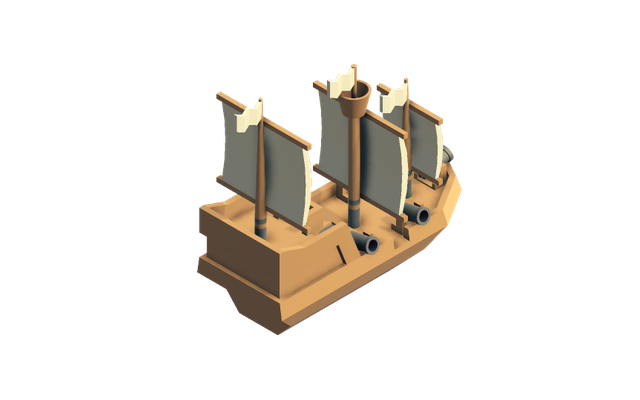
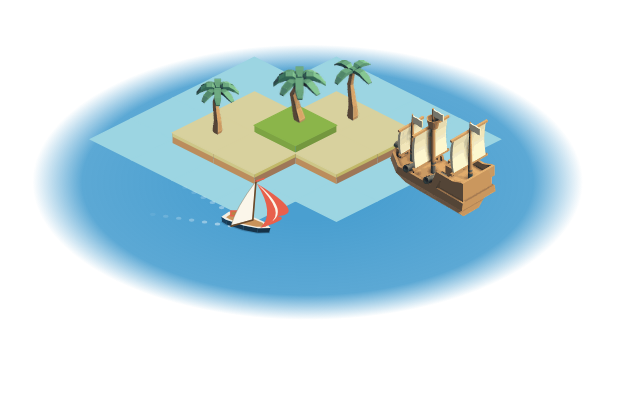
feat(high-seas): playable tile on the landing page, its picture, and the README

diff --git a/high-seas/game.js b/high-seas/game.js
@@ -1004,13 +1004,12 @@ function drawGround(range, items) {
 }
 
 
-function drawBlock(i, j, tt) {
-  const w = S.world;
+function drawBlock(i, j, tt, at = (x, y) => tileAt(S.world, x, y)) {
   const z = LIFT[tt];
   const top = tt === GRASS ? C.grass : C.sand;
   // Side faces where the neighbour in front is lower.
-  const right = tileAt(w, i + 1.5, j + 0.5);
-  const left = tileAt(w, i + 0.5, j + 1.5);
+  const right = at(i + 1.5, j + 0.5);
+  const left = at(i + 0.5, j + 1.5);
   const zr = right >= SAND ? LIFT[right] : -3;
   const zl = left >= SAND ? LIFT[left] : -3;
   if (zr < z) {
@@ -1703,7 +1702,75 @@ const safeTop = () => safe.top;
 const safeRight = () => safe.right;
 void cssVar;
 
+// The landing tile's picture (scripts/high-seas/make-tile.mjs): an islet with palms, the galleon,
+// and the dinghy running under its spinnaker, on a pool of sea, with the page's background clear.
+function drawVignette() {
+  ctx.setTransform(1, 0, 0, 1, 0, 0);
+  ctx.clearRect(0, 0, canvas.width, canvas.height);
+  const z = (cam.w / 330) * 0.66;
+  const centre = iso.toScreen(4.6, 4.0);
+  ctx.setTransform(dpr * z, 0, 0, dpr * z, dpr * (cam.w / 2 - centre.x * z), dpr * (cam.h / 2 - centre.y * z - 14));
+  // A pool of sea that fades out at its rim.
+  const c = iso.toScreen(4.7, 4.4);
+  ctx.save();
+  ctx.translate(c.x, c.y);
+  ctx.scale(1, 0.5);
+  const grad = ctx.createRadialGradient(0, 0, 60, 0, 0, 215);
+  grad.addColorStop(0, C.deep);
+  grad.addColorStop(0.75, 'rgba(74,159,208,0.9)');
+  grad.addColorStop(1, 'rgba(74,159,208,0)');
+  ctx.fillStyle = grad;
+  ctx.beginPath();
+  ctx.arc(0, 0, 215, 0, Math.PI * 2);
+  ctx.fill();
+  ctx.restore();
+  const land = { '3,2': SAND, '4,2': SAND, '2,3': SAND, '3,3': GRASS, '4,3': SAND, '3,4': SAND, '2,4': SAND };
+  const at = (x, y) => land[`${Math.floor(x)},${Math.floor(y)}`] ?? DEEP;
+  for (let j = 1; j <= 5; j++)
+    for (let i = 1; i <= 5; i++) {
+      const t = at(i + 0.5, j + 0.5);
+      if (t !== DEEP) continue;
+      let nearLand = false;
+      for (let dj = -1; dj <= 1; dj++) for (let di = -1; di <= 1; di++) nearLand = nearLand || at(i + di + 0.5, j + dj + 0.5) >= SAND;
+      if (!nearLand) continue;
+      tilePath(i, j, 0);
+      ctx.fillStyle = C.shallow;
+      ctx.fill();
+      ctx.strokeStyle = C.shallow;
+      ctx.stroke();
+    }
+  const items = [];
+  for (const [k, t] of Object.entries(land)) {
+    const [i, j] = k.split(',').map(Number);
+    items.push({ depth: iso.depth(i + 0.5, j + 0.5), draw: () => drawBlock(i, j, t, at) });
+  }
+  items.push({ depth: onTile(3.4, 3.3, 1), draw: () => sprite('tree168', 3.4, 3.3, 0.62, LIFT[GRASS]) });
+  items.push({ depth: onTile(3.8, 2.4, 1), draw: () => sprite('tree167', 3.8, 2.4, 0.55, LIFT[SAND]) });
+  items.push({ depth: onTile(2.5, 4.4, 1), draw: () => sprite('tree169', 2.5, 4.4, 0.5, LIFT[SAND]) });
+  items.push({ depth: iso.depth(6.4, 2.6, 1), draw: () => drawGalleon(6.6, 3.0, Math.PI) });
+  const b = { x: 5.0, y: 6.2 };
+  items.push({
+    depth: iso.depth(b.x, b.y, 1),
+    draw: () => {
+      for (let k = 1; k <= 7; k++) {
+        const w = { x: b.x - k * 0.22, y: b.y + k * 0.05, h: -0.25, age: k * 0.18, v: 1 };
+        const spread = 0.1 + w.age * 0.35;
+        const a = iso.toScreen(w.x - Math.sin(w.h) * spread, w.y + Math.cos(w.h) * spread);
+        const q = iso.toScreen(w.x + Math.sin(w.h) * spread, w.y - Math.cos(w.h) * spread);
+        ctx.fillStyle = `rgba(255,255,255,${0.6 * (1 - k / 8)})`;
+        ctx.beginPath();
+        ctx.ellipse(a.x, a.y, 2.2, 1.2, 0, 0, Math.PI * 2);
+        ctx.ellipse(q.x, q.y, 2.2, 1.2, 0, 0, Math.PI * 2);
+        ctx.fill();
+      }
+      drawDinghy(ctx, iso, b.x, b.y, { heading: -0.25, heel: 0.12, boom: 1.25, fill: 1, luff: 0, t: 0, keel: true, spinnaker: true, spinFill: 1, cargo: [{ colour: '#e8604c' }], vane: { x: 0.9, y: -0.3 } }, ZS);
+    },
+  });
+  for (const it of sortByDepth(items)) it.draw();
+}
+
 function draw() {
+  if (S.mode === 'tile') return drawVignette();
   if (!S.world) return;
   const b = S.boat;
   // Follow the boat, a little ahead of where it's going.
@@ -1942,5 +2009,10 @@ const api = {
   },
   knockDown,
   makeContract,
+  pose: () => {
+    S.mode = 'tile';
+    for (const el of Object.values(screens)) el.hidden = true;
+    hud.hidden = true;
+  },
 };
 window.__seas = api;

diff --git a/index.html b/index.html
@@ -83,14 +83,13 @@
           </article>
         </li>
         <li>
-          <article class="tile is-soon tone-sea" aria-label="High Seas, coming soon">
+          <a class="tile tone-sea" href="high-seas/">
             <div class="art"><img src="assets/tiles/high-seas.png" alt="" width="640" height="400" /></div>
             <div class="body">
               <h2>High Seas</h2>
-              <p class="muted">Sail an isometric sea of ships and islands.</p>
-              <span class="badge">Coming soon</span>
+              <p class="muted">Sail by the wind between islands, and earn the galleon.</p>
             </div>
-          </article>
+          </a>
         </li>
         <li>
           <article class="tile is-soon tone-mint" aria-label="Runes, coming soon">

diff --git a/README.md b/README.md
@@ -2,7 +2,7 @@
 
 Play at **https://games.meirmsn.dev**
 
-**Games:** [Reef](reef/), eat the golden, green and pink fish, dodge the marked ones and dive deeper; [Googly Faces](googly-faces/), tap the silly faces and watch their eyes wobble.
+**Games:** [Reef](reef/), eat the golden, green and pink fish, dodge the marked ones and dive deeper; [Googly Faces](googly-faces/), tap the silly faces and watch their eyes wobble; [High Seas](high-seas/), sail a dinghy by the wind between islands and earn the galleon.
 
 Small browser games, built one at a time. They're touch-first (phone, then tablet, then desktop), and the site installs as a PWA that works offline.
 
@@ -14,9 +14,10 @@ Small browser games, built one at a time. They're touch-first (phone, then table
 |---|---|
 | `index.html`, `assets/` | The landing page: a tile per game, with sound, light and dark themes, and an install button |
 | `manifest.webmanifest`, `sw.js` | The PWA: home-screen install, and offline play once a page has loaded |
-| `shared/` | Shared by every game: `sound.js` (sound that works on phones, and looping music) and `game-shell.js`/`.css` (the back button, the full-screen frame, and offline play for a game opened straight from a link) |
+| `shared/` | Shared by every game: `sound.js` (sound that works on phones, and looping music) and `game-shell.js`/`.css` (the back button, the full-screen frame, and offline play for a game opened straight from a link). For isometric games, `iso.js`: the tile grid, depth sorting, screen↔tile picking, and a camera that pans and zooms by touch, mouse and wheel |
 | `<slug>/` | One folder per game, holding its `index.html`, code and only the assets it uses |
 | `reef/` | **Reef**, the fish game. Its sprite atlas is built from the Fish Pack SVGs by `scripts/reef/build-atlas.mjs` |
+| `high-seas/` | **High Seas**, the isometric sailing game (`specs/high-seas.md`). Its atlas and sounds are built from the Kenney packs by `scripts/high-seas/build-assets.py`, its tile by `scripts/high-seas/make-tile.mjs` |
 
 Run it locally with `PORT=8000 scripts/local-run.sh`, then open http://127.0.0.1:8000/.
 
